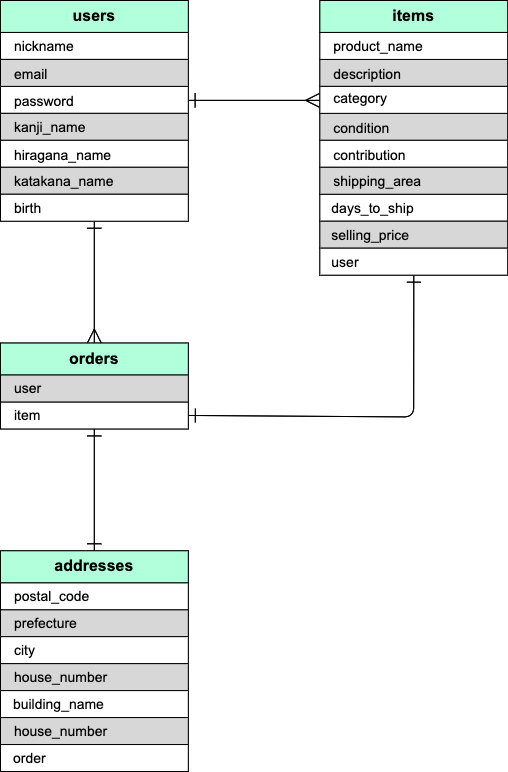
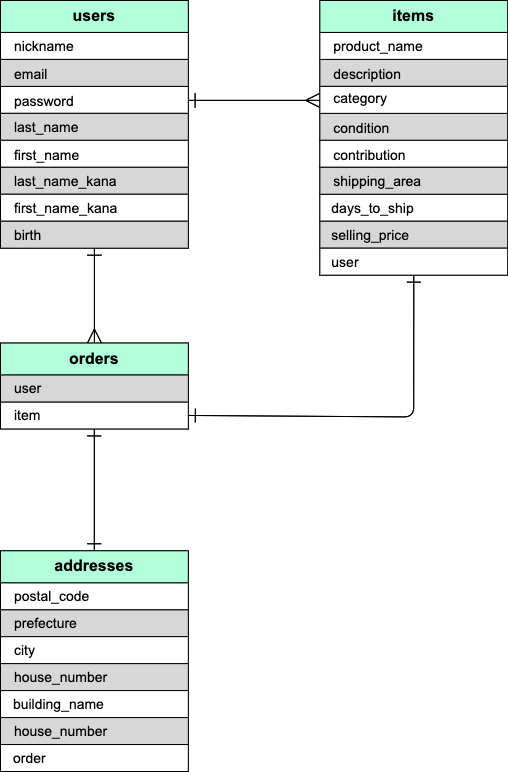
ER図の更新

Changed region(s): [[0.0, 0.1554, 0.3839, 0.342]]

diff --git a/README.md b/README.md
@@ -9,17 +9,18 @@
 | updated_at | datetime    |
 
 ## users テーブル
-
-| Column        | Type   | Options     |
-| ------------- | ------ | ----------- |
-| nickname      | string | null: false |
-| email         | string | null: false |
-| password      | string | null: false |
-| kanji_name    | string | null: false |
-| hiragana_name | string | null: false |
-| katakana_name | string | null: false |
-| birth         | date   | null: false |
-
+| Column          | Type   | Options     |
+| --------------- | ------ | ----------- |
+| nickname        | string | null: false |
+| email           | string | null: false |
+| password        | string | null: false |
+| first_name      | string | null: false |
+| last_name       | string | null: false |
+| first_name_kana | string | null: false |
+| last_name_kana  | string | null: false |
+| birth           | date   | null: false |
+※gem deviseを使用しており、自動生成のカラムは一部省略しています。
+またカラム名"password"は実際には"encrypted_password"になっています。
 ### Association
 
 - has_many :items
